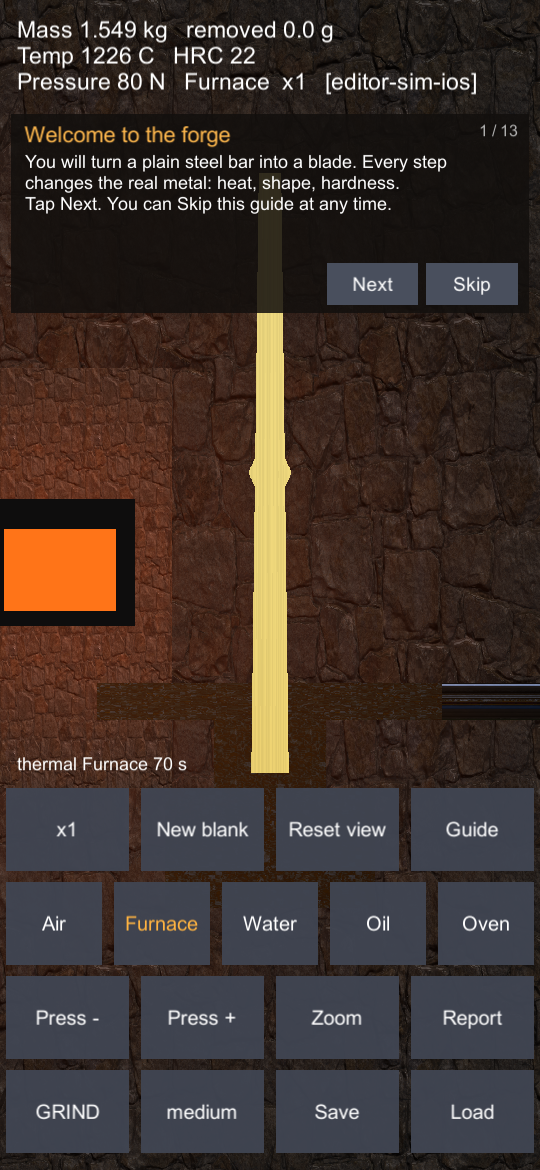
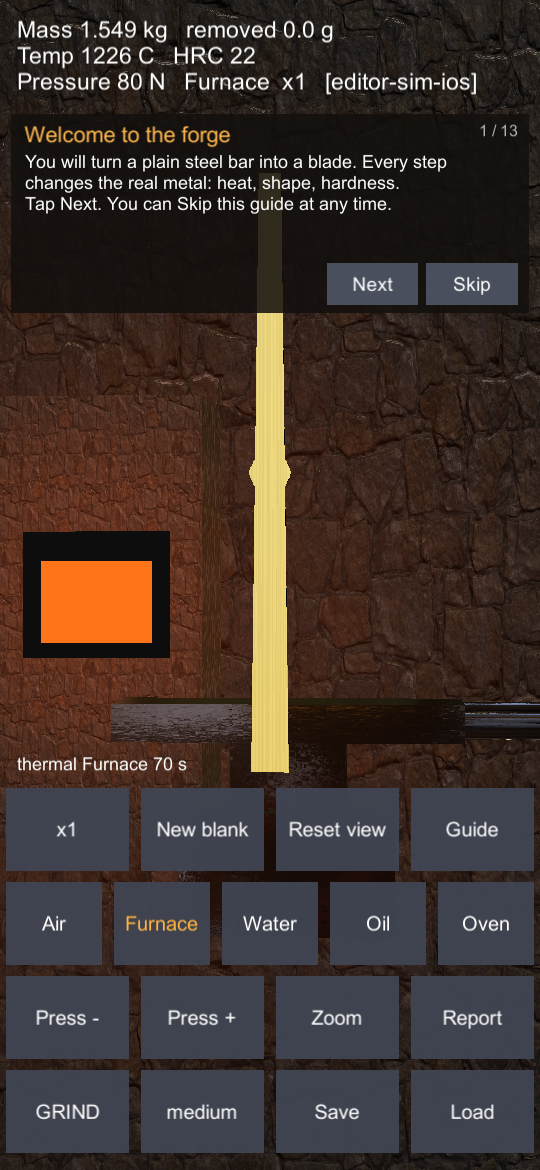
Perspective camera (FOV 35, slight side offset), depth-compensated props, wider backdrop

diff --git a/Assets/_ForgeBorn/Scripts/Unity/SandboxProps.cs b/Assets/_ForgeBorn/Scripts/Unity/SandboxProps.cs
@@ -5,11 +5,14 @@ namespace ForgeBorn.UnityLayer
 {
     /// <summary>
     /// Workshop set pieces built from primitives and CC0 PBR textures (ambientCG Metal038 and Bricks075A, Poly Haven boiler_room HDRI):
-    /// brick wall lit by the furnace, an anvil under the blade, a brick furnace with a glowing mouth. Static camera is orthographic,
-    /// so depth is layered along +Z behind the blade (blade at z = 0). Missing textures fall back to flat colours.
+    /// brick wall lit by the furnace, an anvil under the blade, a brick furnace with a glowing mouth. The camera is perspective, so depth is layered along +Z
+    /// behind the blade (blade at z = 0); positions and sizes are pre-scaled by depth so the screen layout matches the 2D design. Missing textures fall back to flat colours.
     /// </summary>
     public static class SandboxProps
     {
+        /// <summary>Scale that keeps a prop at depth z the same screen size/position it would have at the blade plane.</summary>
+        private static float DepthScale(float z) { return (SandboxEnvironment.BaseDistance + z) / SandboxEnvironment.BaseDistance; }
+
         private static Texture2D Tex(string name) => Resources.Load<Texture2D>("Art/" + name);
 
         private static Material PropMat(Shader sh, string set, Texture env, Color tint, float metal, float roughScale)
@@ -32,8 +35,9 @@ namespace ForgeBorn.UnityLayer
             go.name = name;
             Object.Destroy(go.GetComponent<Collider>());
             go.transform.SetParent(parent, false);
-            go.transform.position = pos;
-            go.transform.localScale = scale;
+            float f = DepthScale(pos.z);
+            go.transform.position = new Vector3(pos.x * f, pos.y * f, pos.z);
+            go.transform.localScale = new Vector3(scale.x * f, scale.y * f, scale.z);
             if (euler.HasValue) go.transform.rotation = Quaternion.Euler(euler.Value);
             var mr = go.GetComponent<MeshRenderer>();
             mr.sharedMaterial = mat;
@@ -53,16 +57,18 @@ namespace ForgeBorn.UnityLayer
             Material wall = PropMat(sh, "brick", env, new Color(0.26f, 0.24f, 0.25f), 0f, 1f);
             wall.SetVector("_Tiling", new Vector4(7f, 7f, 0f, 0f));
             wall.SetColor("_WallGlow", new Color(1.1f, 0.38f, 0.09f));
-            wall.SetVector("_GlowPos", new Vector4(-0.3f, -0.15f, 0f, 0f));
-            wall.SetFloat("_GlowRadius", 0.9f);
+            float fw = DepthScale(2.5f);
+            wall.SetVector("_GlowPos", new Vector4(-0.3f * fw, -0.15f * fw, 0f, 0f));
+            wall.SetFloat("_GlowRadius", 0.9f * fw);
             Piece(root.transform, PrimitiveType.Quad, "Wall", new Vector3(0f, 0f, 2.5f), new Vector3(3f, 3f, 1f), wall);
 
             // Anvil: base, waist, face and horn, centred under the blade.
             Material steel = PropMat(sh, "anvil", env, new Color(0.42f, 0.50f, 0.68f), 1f, 0.8f);
             steel.SetVector("_Tiling", new Vector4(1.5f, 1.5f, 0f, 0f));
             steel.SetColor("_WallGlow", new Color(0.9f, 0.32f, 0.07f));
-            steel.SetVector("_GlowPos", new Vector4(-0.3f, -0.15f, 0f, 0f));
-            steel.SetFloat("_GlowRadius", 0.9f);
+            float fs = DepthScale(0.5f);
+            steel.SetVector("_GlowPos", new Vector4(-0.3f * fs, -0.15f * fs, 0f, 0f));
+            steel.SetFloat("_GlowRadius", 0.9f * fs);
             const float z = 0.5f;
             Piece(root.transform, PrimitiveType.Cube, "AnvilBase", new Vector3(0f, -0.50f, z), new Vector3(0.28f, 0.16f, 0.2f), steel);
             Piece(root.transform, PrimitiveType.Cube, "AnvilWaist", new Vector3(0f, -0.38f, z), new Vector3(0.15f, 0.10f, 0.14f), steel);
@@ -73,8 +79,9 @@ namespace ForgeBorn.UnityLayer
             Material brick = PropMat(sh, "brick", env, new Color(0.34f, 0.3f, 0.3f), 0f, 1f);
             brick.SetVector("_Tiling", new Vector4(3f, 4f, 0f, 0f));
             brick.SetColor("_WallGlow", new Color(1.3f, 0.45f, 0.1f));
-            brick.SetVector("_GlowPos", new Vector4(-0.28f, -0.12f, 0f, 0f));
-            brick.SetFloat("_GlowRadius", 0.5f);
+            float fb = DepthScale(1.0f);
+            brick.SetVector("_GlowPos", new Vector4(-0.28f * fb, -0.12f * fb, 0f, 0f));
+            brick.SetFloat("_GlowRadius", 0.5f * fb);
             Piece(root.transform, PrimitiveType.Cube, "FurnaceBody", new Vector3(-0.30f, -0.14f, 1.2f), new Vector3(0.34f, 0.56f, 0.4f), brick);
 
             var dark = new Material(sh); dark.SetColor("_Tint", new Color(0.03f, 0.025f, 0.025f));

diff --git a/Assets/_ForgeBorn/Scripts/Unity/ForgeSandbox.cs b/Assets/_ForgeBorn/Scripts/Unity/ForgeSandbox.cs
@@ -185,10 +185,9 @@ namespace ForgeBorn.UnityLayer
                 _cam = go.AddComponent<Camera>();
             }
             if (FindFirstObjectByType<AudioListener>() == null) _cam.gameObject.AddComponent<AudioListener>();
-            _cam.orthographic = true;
-            _cam.orthographicSize = ZoomSizes[0];
-            _cam.transform.position = new Vector3(0f, _camY, -2f);
-            _cam.transform.rotation = Quaternion.identity;
+            _cam.orthographic = false;
+            _cam.fieldOfView = SandboxEnvironment.FovDeg;
+            PoseCamera();
             _cam.clearFlags = CameraClearFlags.SolidColor;
             _cam.backgroundColor = new Color(0.08f, 0.08f, 0.1f);
             _cam.nearClipPlane = 0.1f;
@@ -224,6 +223,11 @@ namespace ForgeBorn.UnityLayer
             Shader fallback = Shader.Find("Universal Render Pipeline/Lit");
             if (fallback == null) fallback = Shader.Find("Standard");
             return new Material(fallback) { color = new Color(0.62f, 0.64f, 0.68f) };
+        }
+
+        private void PoseCamera()
+        {
+            SandboxEnvironment.PoseCamera(_cam.transform, ZoomSizes[_zoomIndex], _camY);
         }
 
         private void ResetView()
@@ -455,8 +459,8 @@ namespace ForgeBorn.UnityLayer
             {
                 Vector2 delta = pos - _lastScreenPos;
                 _bladeRoot.Rotate(_bladeRoot.TransformDirection(Vector3.right), -delta.x * 0.4f, Space.World); // roll about blade length
-                _camY = Mathf.Clamp(_camY - delta.y * _cam.orthographicSize * 2f / Screen.height, -0.6f, 0.6f);
-                _cam.transform.position = new Vector3(0f, _camY, -2f);
+                _camY = Mathf.Clamp(_camY - delta.y * ZoomSizes[_zoomIndex] * 2f / Screen.height, -0.6f, 0.6f);
+                PoseCamera();
             }
             _lastScreenPos = pos;
             _hasScreenPrev = true;
@@ -533,7 +537,7 @@ namespace ForgeBorn.UnityLayer
             _speedLabel = MakeButton(safe, 0, 4, 3, "x1", CycleSpeed);
             _speedBtn = _speedLabel;
             MakeButton(safe, 1, 4, 3, "New blank", NewBlank);
-            MakeButton(safe, 2, 4, 3, "Reset view", () => { ResetView(); _camY = BaseCamY; _cam.transform.position = new Vector3(0f, _camY, -2f); });
+            MakeButton(safe, 2, 4, 3, "Reset view", () => { ResetView(); _camY = BaseCamY; PoseCamera(); });
             MakeButton(safe, 3, 4, 3, "Guide", () => { _tutorial.Restart(); _hammerHits = 0; RefreshHud(); });
             BuildTutorialPanel(safe);
 
@@ -735,7 +739,7 @@ namespace ForgeBorn.UnityLayer
         private void CycleZoom()
         {
             _zoomIndex = (_zoomIndex + 1) % ZoomSizes.Length;
-            _cam.orthographicSize = ZoomSizes[_zoomIndex];
+            PoseCamera();
         }
 
         private void ToggleReport()

diff --git a/Assets/_ForgeBorn/Scripts/Unity/SandboxEnvironment.cs b/Assets/_ForgeBorn/Scripts/Unity/SandboxEnvironment.cs
@@ -13,6 +13,22 @@ namespace ForgeBorn.UnityLayer
     {
         public const int CubeSize = 64;
 
+        /// <summary>Vertical field of view of the sandbox camera (perspective). A phone-friendly, slightly telephoto 35 degrees.</summary>
+        public const float FovDeg = 35f;
+        /// <summary>Distance from the blade plane at which the view is 0.78 m half-height (the old orthographic framing).</summary>
+        public static readonly float BaseDistance = 0.78f / Mathf.Tan(0.5f * FovDeg * Mathf.Deg2Rad);
+        /// <summary>Sideways camera offset at base distance: gives a slight three-quarter view so depth and parallax read.</summary>
+        public const float SideOffset = 0.16f;
+
+        /// <summary>Camera pose for a framing half-height (m at the blade plane) and vertical look-at height.</summary>
+        public static void PoseCamera(Transform cam, float halfHeightM, float lookY)
+        {
+            float dist = halfHeightM / Mathf.Tan(0.5f * FovDeg * Mathf.Deg2Rad);
+            float side = SideOffset * (dist / BaseDistance);
+            cam.position = new Vector3(side, lookY, -dist);
+            cam.rotation = Quaternion.LookRotation(new Vector3(-side, 0f, dist), Vector3.up);
+        }
+
         /// <summary>HDR radiance seen along a world direction. Pure function so it can be unit tested.</summary>
         public static Color Radiance(Vector3 d)
         {
@@ -106,7 +122,7 @@ namespace ForgeBorn.UnityLayer
                 Object.Destroy(quad.GetComponent<Collider>());
                 quad.transform.SetParent(root.transform, false);
                 quad.transform.position = new Vector3(0f, 0f, 3f);
-                quad.transform.localScale = new Vector3(8f, 8f, 1f);
+                quad.transform.localScale = new Vector3(14f, 14f, 1f);
                 var mr = quad.GetComponent<MeshRenderer>();
                 mr.sharedMaterial = new Material(sh);
                 mr.shadowCastingMode = ShadowCastingMode.Off;

diff --git a/docs/GAME_DESIGN.md b/docs/GAME_DESIGN.md
@@ -30,7 +30,7 @@ Mỗi trạm là một chế độ của cùng một cảnh, chuyển bằng tha
 
 ## 3. Bố cục cảnh (ảnh chụp dọc 9:19.5)
 
-- Camera hiện tại trực giao, nhìn thẳng mặt lưỡi (dễ chạm chính xác). Các lớp theo trục Z: lưỡi (z=0), đe (z=0.5), lò (z=1.2), tường gạch (z=2.5).
+- Camera phối cảnh FOV 35 độ, lệch ngang nhẹ để thấy chiều sâu; mặt lưỡi vẫn hướng về camera (tia chạm dùng ScreenPointToRay nên đúng với phối cảnh). Các lớp theo trục Z: lưỡi (z=0), đe (z=0.5), lò (z=1.2), tường gạch (z=2.5).
 - Lưỡi nằm dọc ở giữa. Đe ngay dưới phần giữa lưỡi, lò rèn bên trái, tường gạch phía sau, ánh lò ấm từ trái, ánh sáng lạnh từ cửa sổ bên phải (HDRI).
 - Vùng bàn tay (dưới 33% màn hình) chỉ chứa nút. Mọi vật quan trọng nằm trên đó.
 - Giai đoạn sau: chuyển sang camera phối cảnh có xoay nhẹ khi sang trạm; cần giữ nguyên đường chạm (ray camera) đã có test.
@@ -82,6 +82,6 @@ Mỗi trạm là một chế độ của cùng một cảnh, chuyển bằng tha
 | D1 | Cảnh xưởng: tường, đe, lò, HDRI, bloom | Đang làm (ảnh render headless) |
 | D2 | Thanh tab trạm và HUD theo trạm | Tiếp theo |
 | D3 | Đơn hàng + chấm điểm theo spec | Chưa |
-| D4 | Camera phối cảnh, hiệu ứng tôi (hơi nước) | Chưa |
+| D4 | Camera phối cảnh (xong, ảnh render), hiệu ứng tôi (hơi nước) | Một phần |
 | D5 | Kinh tế, nâng cấp, lưu hồ sơ | Chưa |
 | D6 | Âm thanh thật, haptics native, thử trên thiết bị | Cần phần cứng |
